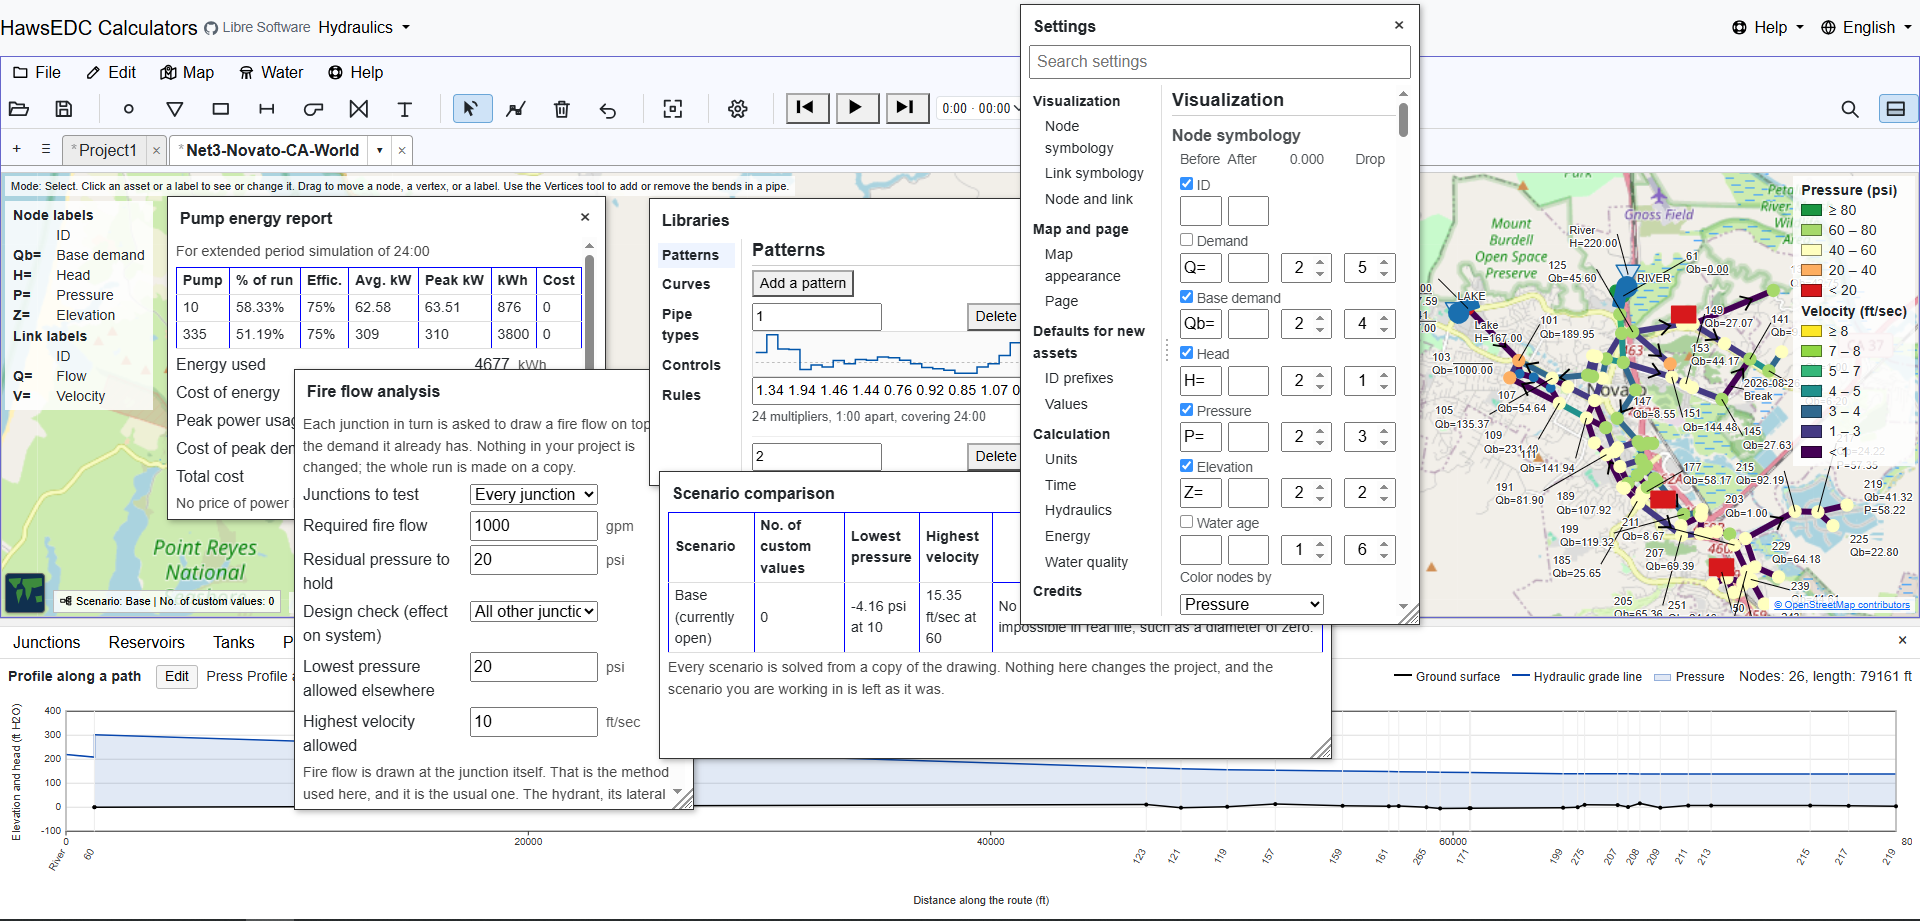
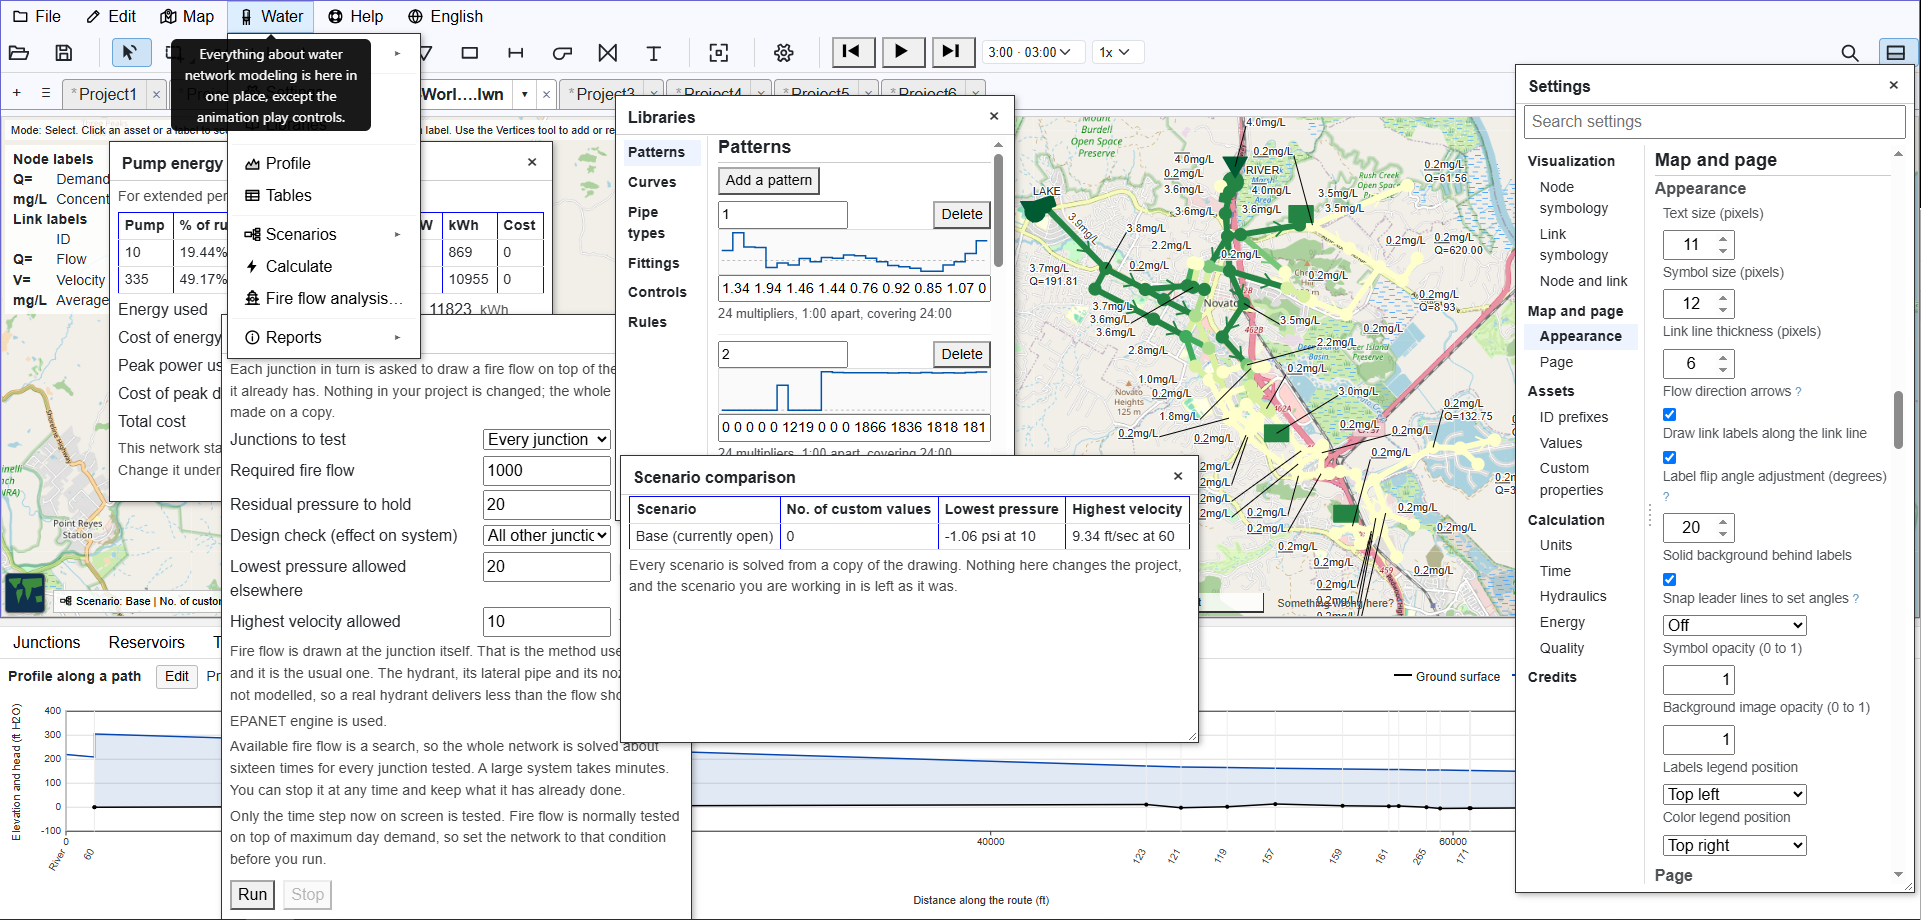
Tom's re-shot lead frame, and its real dimensions

diff --git a/index.html b/index.html
@@ -81,7 +81,7 @@
 				     network, and nobody mistakes that for a demo. 0028 keeps its place in the
 				     strip below, where it is still the clean answer.
 				     Every image is vetted publishable in the suite's dev/screenshots/INDEX.md. -->
-				<img src="img/0082.png" alt="One browser window showing a water network on a street map with the Settings box, the Libraries box, a fire flow analysis, a pump energy report, a scenario comparison and a hydraulic profile all open over it." width="1920" height="921" decoding="async">
+				<img src="img/0082.png" alt="One browser window showing a water network on a street map with the Settings box, the Libraries box, a fire flow analysis, a pump energy report, a scenario comparison and a hydraulic profile all open over it." width="1921" height="920" decoding="async">
 				<div class="plate-strip">
 					<img src="img/0028.png" alt="A water network on a street map of Novato, California, colored by pressure, with a hydraulic profile along a chosen path in the pane beneath it." width="1922" height="918" loading="lazy" decoding="async">
 					<img src="img/0007.png" alt="A water network drawn over a site plan with hand-placed labels, leader lines and a title block." width="1917" height="919" loading="lazy" decoding="async">

diff --git a/screenshots.html b/screenshots.html
@@ -65,7 +65,7 @@ easy for you to reproduce using the provided examples.</p>
 	report, a scenario comparison, the tables and a hydraulic profile, all live over EPA&rsquo;s Net3
 	on the streets of Novato. Nothing here is staged: it is one browser window with one project open
 	in it.</p>
-	<div class="shot"><img src="img/0082.png" loading="eager" decoding="async" width="1920" height="921"
+	<div class="shot"><img src="img/0082.png" loading="eager" decoding="async" width="1921" height="920"
 		alt="One browser window showing a water network on a street map with the Settings box, the Libraries box, a fire flow analysis, a pump energy report, a scenario comparison and a hydraulic profile all open over it."></div>
 	<figcaption><span class="n">Plate 1</span><span>Everything at once</span></figcaption>
 	<p class="note">Each of these has a plate of its own further down, where you can read it. This
